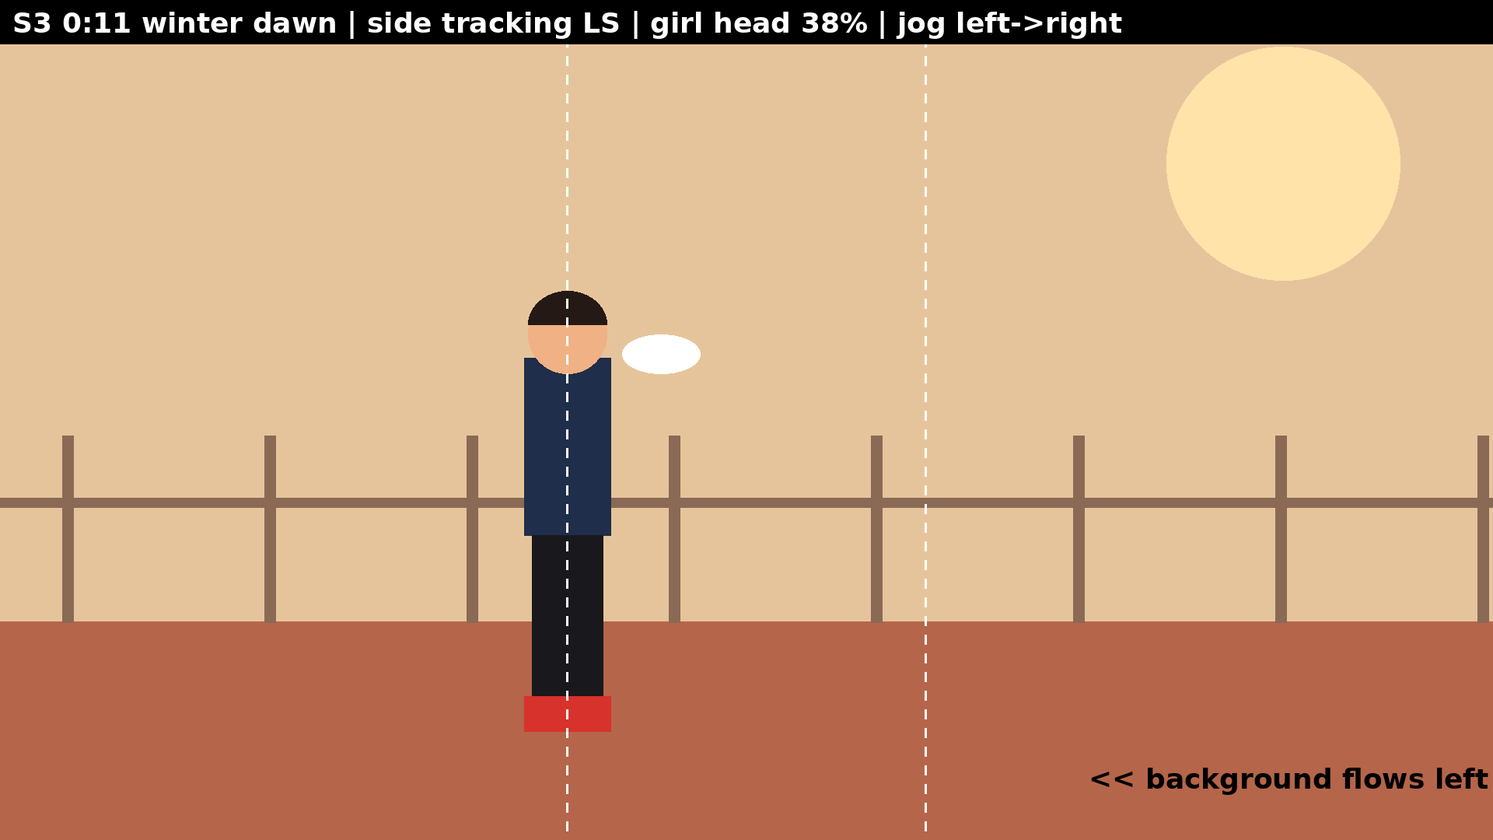
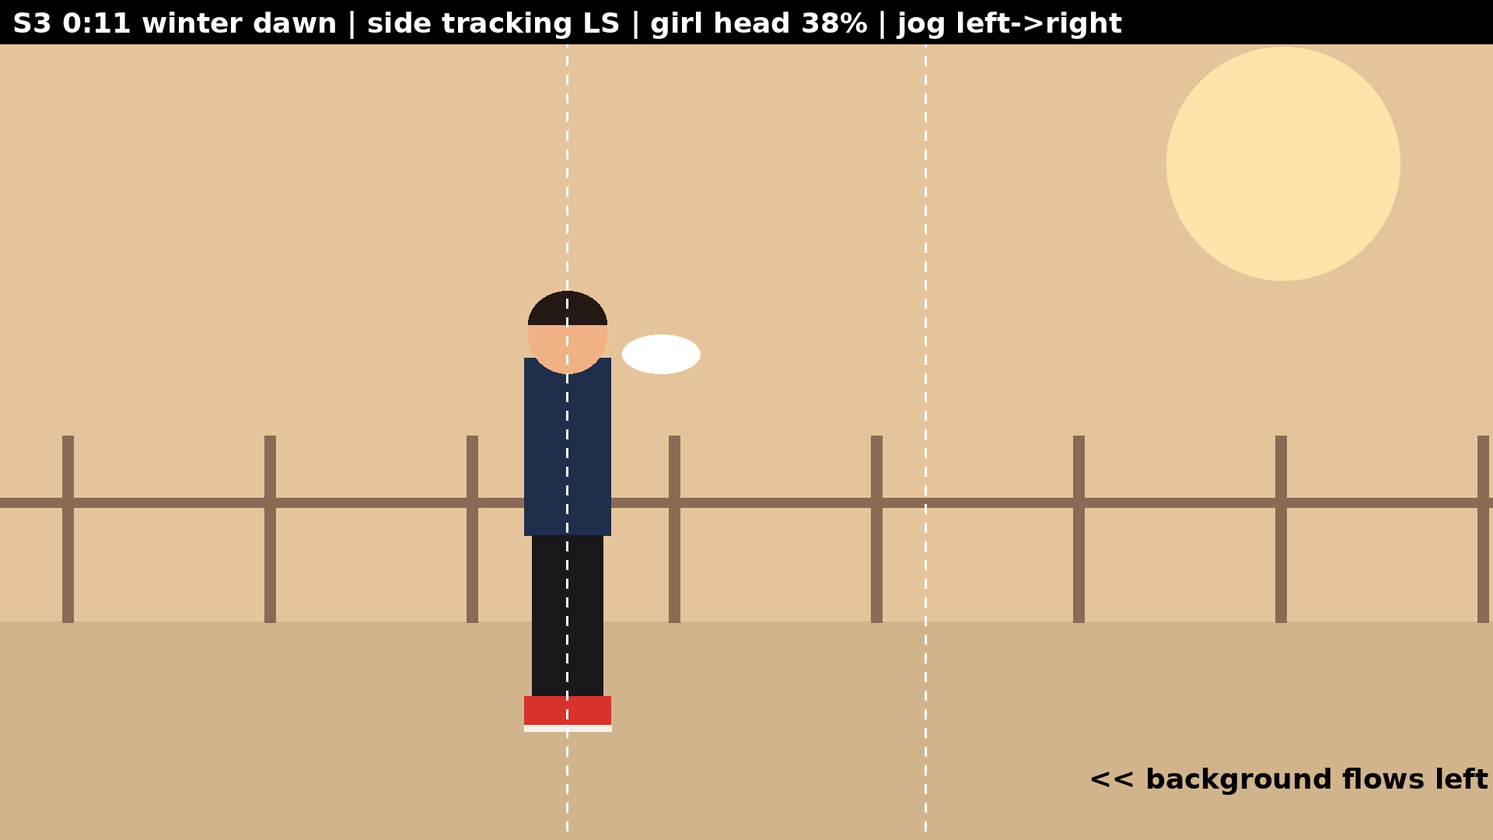
Storyboard v2, palette v2, story v5 after step-2 audit
Claude-Session: https://claude.ai/code/session_01RCKfh7QFC5JMYtfdRs4yVc

Changed region(s): [[0.0, 0.7333, 1.0, 1.0]]

diff --git a/pain_before_success/tools/sketches.py b/pain_before_success/tools/sketches.py
@@ -32,7 +32,7 @@ def guides(im,label):
 
 shots={}
 # S1 rainy night, low angle, girl at 62%, backlight
-im,d,m,md=base('#2A2028','#4E2A20',0.62)
+im,d,m,md=base('#2A2028','#4A3C32',0.62)
 d.ellipse([820,60,1560,820],fill='#C27A40')                        # lit rain mist halo behind girl
 d.ellipse([1050,80,1350,330],fill='#F2A24A')                       # streetlight glow behind
 person(d,1190,300,620,'#14101A',legs='#14101A',skin='#5A3828',shoes='#2A2A30',mask=md)  # backlit silhouette
@@ -41,24 +41,24 @@ for x in range(0,W,70): d.line([x,60,x-30,H*0.62],fill='#FFD08A',width=1)  # rai
 for x in (1050,1300,1120): d.ellipse([x,900,x+90,950],fill='#FFD08A')       # splashes
 shots['S1']=(im,m,'S1 0:00 rainy night | low angle MS-full | girl head 62% | falls forward ~1.2s')
 # S2 bedroom
-im,d,m,md=base('#5E4232','#7A4E30',0.72)
+im,d,m,md=base('#5E4232','#4E3424',0.72)
 d.rectangle([0,430,820,780],fill='#3A3550')                        # bed left
 d.ellipse([480,420,640,560],fill=SKIN); md.ellipse([480,420,640,560],fill=255)   # sleeping face ~30%
 d.rectangle([600,470,820,600],fill='#BDB6AE'); md.rectangle([600,470,820,600],fill=255)
 d.rectangle([650,600,720,640],fill=GAUZE); d.rectangle([740,600,810,640],fill=GAUZE)
 d.ellipse([160,40,420,300],fill='#F5B65E')                         # lamp glow
 person(d,1190,420,560,CARD,legs='#5A4A3A',mask=md)                  # mom crouch at 62%
-d.rectangle([1080,700,1160,760],fill=RED); d.rectangle([1230,700,1310,760],fill=RED)
+d.rectangle([1080,700,1160,760],fill=RED); d.rectangle([1230,700,1310,760],fill=RED); d.rectangle([1080,750,1160,762],fill='#F4F1EA'); d.rectangle([1230,750,1310,762],fill='#F4F1EA')
 d.rectangle([700,880,840,960],fill=OLDW); d.rectangle([860,880,1000,960],fill=OLDW)
 d.ellipse([965,895,995,925],fill='#2A1D18')                        # hole right shoe
 d.rectangle([1030,880,1310,960],outline='#F5B65E',width=3)          # landing space
 shots['S2']=(im,m,'S2 0:05 bedroom | floor-level side MS | mom head 62% | new shoes -> right of old')
 # S3 winter dawn fog tracking
-im,d,m,md=base('#E6C49B','#B5654A',0.74)
+im,d,m,md=base('#E6C49B','#D2B48C',0.74)
 d.ellipse([1500,60,1800,360],fill='#FFE3A8')
 for x in range(80,W,260): d.rectangle([x,560,x+14,800],fill='#8A6A55')   # fence posts
 d.rectangle([0,640,W,652],fill='#8A6A55')
-person(d,730,380,560,NAVY,shoes=RED,mask=md)
+person(d,730,380,560,NAVY,shoes=RED,mask=md); d.rectangle([730-56,380+560-8,730+56,380+560],fill='#F4F1EA')
 d.ellipse([800,430,900,480],fill='#FFFFFF')                         # breath
 d.text((1400,980),'<< background flows left',fill='#000000',font=FONT)
 shots['S3']=(im,m,'S3 0:11 winter dawn | side tracking LS | girl head 38% | jog left->right')
@@ -68,22 +68,23 @@ for x in range(0,W,40): d.line([x,0,x+15,H],fill='#3B3A1E',width=2)
 d.ellipse([1000,250,1380,700],fill='#F7C49A'); md.ellipse([1000,250,1380,700],fill=255)
 d.ellipse([1030,80,1350,330],fill=HAIR)                             # hair spread above head
 d.ellipse([1110,420,1160,450],fill=HAIR); d.ellipse([1220,420,1270,450],fill=HAIR)
-d.ellipse([1300,150,1700,550],fill='#F08A4B')                      # warm light pool (behind)
+d.polygon([(1380,300),(1920,180),(1920,700),(1380,640)],fill='#5A5A26')   # long warm light from right, no sun
+d.polygon([(400,280),(1000,330),(1000,620),(400,680)],fill='#2A3014')       # long shadow to left
 d.rectangle([1000,700,1380,H],fill=NAVY); md.rectangle([1000,700,1380,H],fill=255)
 shots['S4']=(im,m,'S4 0:16 sunset grass | top-down CU | eyes at 62% | eyes open ~0:18.67')
 # S5 finish
-im,d,m,md=base('#F3D28C','#C0583C',0.55)
+im,d,m,md=base('#F3D28C','#D2B48C',0.55)
 person(d,1500,420,300,'#8C6A5A',legs='#8C6A5A');person(d,1650,440,280,'#9C7A6A',legs='#9C7A6A')
-person(d,730,300,520,NAVY,shoes=RED,mask=md)
+person(d,730,300,520,NAVY,shoes=RED,mask=md); d.rectangle([730-52,300+520-8,730+52,300+520],fill='#F4F1EA')
 d.rectangle([700,420,760,470],fill='#FFFFFF')                       # plain bib
 d.line([0,560,W,520],fill='#FFFFFF',width=8)                        # tape far
-shots['S5']=(im,m,'S5 0:21 finish | low telephoto LS | girl head 38% | tape break ~0:24.00')
+shots['S5']=(im,m,'S5 0:21 finish | low tele 30deg, slow-mo LS | girl head 38% | tape break 0:24.00')
 # S6 stands
-im,d,m,md=base('#9C6A44','#6E4430',0.7)
+im,d,m,md=base('#9C6A44','#A87850',0.7)
 for x in (300,900,1600): person(d,x,200,260,'#C89A6A',legs='#C89A6A')  # far blurred crowd
 person(d,730,180,1100,CARD,mask=md)
 d.rectangle([600,560,860,700],fill=OLDW); d.ellipse([800,600,840,640],fill='#2A1D18')
-person(d,1340,430,800,'#2F4F3A',hair='#B9B4AC',mask=md)
+person(d,1340,430,800,'#4F6B3F',hair='#B9B4AC',mask=md)
 shots['S6']=(im,m,'S6 0:26 stands | eye-level front MCU | mom head 38%, aunt ~70%')
 
 rows=[]
@@ -100,4 +101,6 @@ def sheet(suffix,name):
     for i,k in enumerate(shots): s.paste(Image.open(f'{OUT}/{k}_{suffix}.png').resize((960,540)),((i%3)*960,(i//3)*540))
     s.save(f'{OUT}/../{name}')
 sheet('color','overview_color.png'); sheet('gray','overview_gray.png')
+def lum(h): h=h.lstrip('#'); r,g,b=[int(h[i:i+2],16) for i in (0,2,4)]; return .299*r+.587*g+.114*b
+print('red shoe %.0f vs dry track %.0f / S2 floor %.0f'%(lum(RED),lum('#D2B48C'),lum('#4E3424')))
 for r in rows: print('%s  fg=%.0f bg=%.0f diff=%.0f %s'%(*r,'OK' if r[3]>=40 else 'LOW'))

diff --git a/pain_before_success/01_story/story_v5.md b/pain_before_success/01_story/story_v5.md
@@ -1,0 +1,51 @@
+# 《終點線》逐鏡頭故事 v5（v4 經用戶確認；v5 只同步分鏡數字並修正 S5 拍法與跑道顏色）
+
+- 片長：32 秒｜畫幅：16:9｜無對白、無字幕、無片尾字卡｜有配樂（約 32 秒，配樂定案後再微調各鏡時長對拍）
+- 結構：片段式（鏡頭間不接戲，靠時間與季節跳躍串起）
+- 畫風：參照上傳參考片——2D 手繪插畫式動畫、**全片暖色光**（橘黃路燈、檯燈、金色晨光、夕陽、午後金光）、大眼睛修長比例角色、表情豐富
+- 每鏡只有一個主要動作；每人每鏡最多兩個動作
+- 跑道是低彩度沙褐色（不是紅色跑道），紅鞋配白色鞋底，紅色只給紅鞋用
+
+## 一句話主旨
+每一次摔倒、每一雙磨破的鞋，都是終點線前必須付的代價——而媽媽一直看在眼裡。
+
+## 角色（固定特徵寫死，盡量左右對稱）
+- **小晴**（主角）：17 歲高中女生，長跑選手。黑色高馬尾綁在頭頂正後方，額前齊瀏海。
+  - 練習服：深藍色無字背心＋黑色短褲（S1、S4）
+  - 家居服：淺灰色寬 T 恤＋深灰短褲（S2）
+  - 冬裝：深藍色長袖防風外套（拉鍊拉到胸口）＋黑色長緊身褲（S3）
+  - 比賽服：深藍色無字背心＋黑色短褲＋胸前一塊**素面白色號碼布（無任何字或數字）**（S5）
+  - 紗布：只有 S2 兩邊膝蓋各貼一塊白色方形紗布；S3 之後已痊癒、不貼。
+- **媽媽**：45 歲左右，黑色齊耳短髮，米色開襟毛衣（S2、S6 同一件）。
+- **陌生阿姨**（只在 S6）：60 歲左右，灰白短捲髮，墨綠色上衣。
+- **鞋（核心道具）**：
+  - 舊鞋＝白底藍邊、髒舊；長期磨損、鞋頭布料已經磨得很薄；**S1 這一摔右腳鞋頭拖地，終於磨穿成一個洞**（S1 畫面中鞋在逆光暗處看不清細節）。之後右鞋鞋頭有洞。
+  - 新鞋＝鮮紅色跑鞋，兩隻都完好。
+
+## 逐鏡頭
+| 鏡 | 片中時間 | 生成秒數 | 地點／光 | 首幀 → 發生什麼 → 尾幀 |
+|---|---|---|---|---|
+| S1 | 0:00.00–0:05.33 | 8 秒 | 下雨的夜晚田徑場，橘黃色鈉燈路燈從背後打強烈逆光，雨絲與水花被照亮 | **首幀**：低機位中全景（看得到雙腳），小晴已在雨中朝鏡頭方向跑，身形被逆光勾出明亮輪廓，臉上有前方路燈的暖色補光、極度疲憊的表情看得清楚。**發生**：約第 1–1.5 秒，她腿一軟、右腳鞋頭拖地被絆，往前撲倒，雙手撐地、膝蓋著地，水花濺起。**尾幀**：她跪撐在濕跑道上，低頭喘氣，雨打在背上。 |
+| S2 | 0:05.33–0:10.67 | 8 秒 | 同一晚，臥室，暖黃檯燈 | **首幀**：床在畫面左側，小晴換了乾的家居服，面向鏡頭側睡，兩邊膝蓋的白紗布清楚可見；床邊地板前景放著那雙她回家脫下的舊鞋，右鞋鞋頭的破洞朝向鏡頭；舊鞋右邊留著一雙鞋大小的空地板，在媽媽一臂之內。媽媽蹲在畫面右側，四分之三側臉朝左，眼眶已經紅了，左右手各拿一隻紅色新鞋，低頭看著破鞋。**發生**：媽媽抬頭望向熟睡的女兒 → 低頭把紅鞋輕輕放在舊鞋右邊的空地上。**尾幀**：兩雙鞋並排在地上，媽媽的手剛離開新鞋，看著女兒。 |
+| S3 | 0:10.67–0:16.00 | 8 秒 | 冬天清晨，田徑場，薄霧中金色朝陽從畫面右後方斜照 | **首幀**：側面中景跟拍，小晴穿冬裝與紅色新鞋，以穩定慢跑配速由左往右跑，人在畫面左側約 38% 處，全身與紅鞋清楚。**發生**：攝影機與她同速向右橫移跟拍，她在畫面中的位置不變，背景的欄杆、燈柱與霧往左流過；嘴裡規律吐出白氣。**尾幀**：她仍在畫面約 38% 處，背景已移過一段，光線與首幀完全相同。（製作：先畫一張寬幅背景，再用 Python 切出首尾幀，確保背景連續。） |
+| S4 | 0:16.00–0:21.33 | 8 秒 | 夏天傍晚，跑道內側草地，橘紅夕陽從畫面右側斜照（畫面裡看不到太陽），草上有長影 | **首幀**：正上方俯拍特寫，小晴仰躺在草地上，臉朝上、滿臉汗，閉眼大口喘氣；馬尾從頭後散在草上。臉旁的草葉被晚風吹得輕輕擺動（全程持續）。**發生**：胸口大口起伏，然後她慢慢睜開眼看著天空，嘴角慢慢上揚——累到極點後的釋然（睜眼約片中 0:18.67，配樂第 8 小節重拍）。**尾幀**：睜眼、淺淺微笑，胸口起伏變緩，草葉仍輕擺。 |
+| S5 | 0:21.33–0:26.67 | 8 秒 | 比賽日，晴朗午後，金色側逆光（從畫面左後方），臉部有暖色補光、表情清楚 | **整段慢動作（約 0.4 倍速）**。**首幀**：低機位、長焦，從終點線右前方約 30° 斜拍、固定，小晴在遠處穿紅鞋全力衝刺，從畫面左後方往右前方斜向跑來，全身入鏡；白色終點帶橫在畫面中後段、離鏡頭約三分之二遠（兩端由畫面外的裁判拉著）；只有兩名對手，模糊、落後在她身後、都在畫面右側，全程不與她交叉。**發生**：她持續衝刺，約第 4.0 秒（片中 0:24.00，配樂重拍）胸口撞斷終點帶，雙臂順勢張開。**尾幀**：她剛衝過終點帶、仍在跑、雙臂張開、仰頭，人物仍是全身且離鏡頭還有一段距離；終點帶斷成兩截，各往畫面左右兩側垂落。 |
+| S6 | 0:26.67–0:32.00 | 8 秒 | 看台，同一個金色午後 | **首幀**：中近景平視，媽媽已經站著，雙手把洗乾淨的舊鞋抱在胸前（右鞋破洞朝鏡頭），人在畫面左側約 38% 處，看向畫面左下方的跑道，表情緊繃——這是她看到女兒衝線那一刻。畫面右側（約 70% 處）坐著陌生阿姨，也看向畫面左下方的跑道。背景只有三四個很遠、很模糊的觀眾，首幀已經站著、手舉著，只輕微晃動。**發生**：媽媽眼淚掉下來，表情從緊繃變成含淚的笑（雙手抱鞋姿勢不變）。隔一拍，坐著的阿姨抬頭往畫面左上方看向站著的媽媽，接著微笑輕輕鼓掌。**尾幀**：媽媽抱著鞋含淚笑，阿姨看著她鼓掌。 |
+
+## 現實邏輯自問
+- S1 為什麼摔倒？練到腿軟，雨天跑道濕滑，右腳鞋頭拖地被絆；鞋頭本來就磨薄，這一摔才磨穿。
+- S2 衣服：回家換過乾衣服、累到直接睡著；舊鞋是她脫在床邊的。新鞋：媽媽事先買好，今晚看到破鞋和傷才拿出來，首幀就在她手上。
+- S3 冬天穿外套與長褲；紗布已拿掉（傷已痊癒）。
+- S5 終點帶由畫面外的裁判拉著；號碼布素面。
+- S6 舊鞋為什麼在看台？媽媽把它洗乾淨收著，比賽日帶來——她一直看在眼裡。阿姨看到旁邊的人激動落淚，猜到是家長，才鼓掌。
+- 時間跳躍：雨夜 → 同晚 → 冬天清晨 → 夏天傍晚 → 比賽日。
+
+## 避開 AI 弱點
+- 無任何文字：背心、號碼布、看板都素面。
+- 手拿物件：只有 S2「放鞋」、S6「抱鞋」，都是中型物件；S2、S6 的鞋子數量在首尾幀必須核對（舊鞋 2 隻＋新鞋 2 隻）。
+- 不對稱特徵：只有舊鞋「右鞋破洞」，提示詞寫死、疊圖時專門檢查。
+- 配角最多：S5 兩名模糊對手（同在右側、不與主角交叉）、S6 一名阿姨＋背景靜止觀眾。
+- 單鏡不換光；人物不轉身背對鏡頭；俯拍只在 S4，且臉朝上。
+
+## 配樂對位（待配樂定案）
+- 配樂 90 BPM、12 小節。0–16 秒主歌鋪陳；0:16.00（S4 開頭）進副歌；睜眼 0:18.67；撞線 0:24.00 是全片最重的一拍。

diff --git a/pain_before_success/02_storyboard/storyboard.md b/pain_before_success/02_storyboard/storyboard.md
@@ -1,4 +1,4 @@
-# 《終點線》分鏡表 v1
+# 《終點線》分鏡表 v2（數字以本表為準）
 
 - 配樂：90 BPM，4/4 拍，1 小節 = 2.667 秒，全片 12 小節 = 32 秒。每鏡 2 小節（5.33 秒），切點都落在小節線上。
 - 生成：全部用 Google Flow **Veo 3.1 Lite**、8 秒（每鏡 10 點，6 鏡共 60 點，留 10 點重拍一次）。後期從 8 秒裡剪出 5.33 秒。
@@ -8,16 +8,27 @@
 | 鏡 | 片中時間（小節） | 生成 → 取用區間 | 景別 | 機位 | 運鏡 | 誰往哪動（畫面左右） | 表情推進 | 動態來源 | 轉到下一鏡 |
 |---|---|---|---|---|---|---|---|---|---|
 | S1 | 0:00.00–0:05.33（1–2） | 8 秒 → 0.3–5.63 秒 | 中全景（看得到腳） | 貼地低機位、正面略偏左 | 固定 | 小晴從畫面深處朝鏡頭跑，頭在 62%；約第 1.2 秒往前撲倒，跪撐時頭落在 62% 偏下 | 疲憊 → 撐地喘氣 | 人物、雨絲、水花 | 硬切，落在第 3 小節重拍 |
-| S2 | 0:05.33–0:10.67（3–4） | 8 秒 → 1.0–6.33 秒 | 中景 | 地板高度、側面；舊鞋在前景 | 極慢推近（約 5%） | 床與小晴在畫面左側（臉在 30%）；媽媽蹲在右側，頭在 62%，四分之三側臉朝左 | 媽媽：心疼、低頭 → 抬頭看女兒 → 低頭放鞋 | 媽媽兩個動作、推鏡 | 硬切 |
-| S3 | 0:10.67–0:16.00（5–6） | 8 秒 → 1.0–6.33 秒 | 全景（中遠） | 側面平視 | 向右橫移跟拍，與人同速 | 小晴由左往右慢跑，頭固定在 38%；背景往左流 | 專注、吐白氣 | 跟拍、背景流動、白氣、霧 | 硬切，落在副歌第一拍（第 7 小節） |
-| S4 | 0:16.00–0:21.33（7–8） | 8 秒 → 0.3–5.63 秒 | 特寫 | 正上方俯拍、臉朝上 | 極慢拉遠（約 5%） | 臉放在畫面右側，眼睛在 62%；頭朝畫面上方 | 閉眼喘 → 約 0:18.67（第 8 小節重拍）睜眼 → 嘴角上揚 | 胸口起伏、草葉擺動、拉鏡 | 硬切 |
-| S5 | 0:21.33–0:26.67（9–10） | 8 秒 → 1.3–6.63 秒（撞線約在生成第 4.0 秒，對片中 0:24.00 第 10 小節重拍） | 全景 | 低機位、長焦、正面略偏右 | 固定 | 小晴從遠處朝鏡頭衝，頭約在 38%；兩名模糊對手在右側後方 | 咬牙衝刺 → 撞線後張臂仰頭 | 人物衝刺、終點帶斷開飄落 | 硬切，落在第 11 小節重拍 |
+| S2 | 0:05.33–0:10.67（3–4） | 8 秒 → 1.0–6.33 秒（提示詞要求約第 5.5 秒前把鞋放好） | 中景 | 地板高度、側面；舊鞋在前景 | 極慢推近（約 5%） | 床與小晴在畫面左側（臉在 30%）；媽媽蹲在右側，頭在 62%，四分之三側臉朝左 | 媽媽：心疼、低頭 → 抬頭看女兒 → 低頭放鞋 | 媽媽兩個動作、推鏡 | 硬切 |
+| S3 | 0:10.67–0:16.00（5–6） | 8 秒 → 1.0–6.33 秒 | 全景（中遠） | 側面平視 | 向右橫移跟拍，與人同速 | 小晴由左往右慢跑，頭固定在 38%；背景往左流，首尾幀之間欄杆柱至少移過 2 根，首尾幀的腿用不同步態 | 專注、吐白氣 | 跟拍、背景流動、白氣、霧 | 硬切，落在副歌第一拍（第 7 小節） |
+| S4 | 0:16.00–0:21.33（7–8） | 8 秒 → 0.3–5.63 秒 | 特寫 | 正上方俯拍、臉朝上；夕陽從畫面右側斜照，畫面裡看不到太陽 | 極慢拉遠（約 5%） | 臉放在畫面右側，眼睛在 62%；頭朝畫面上方 | 閉眼喘 → 約 0:18.67（第 8 小節重拍）睜眼 → 嘴角上揚 | 胸口起伏、草葉擺動、拉鏡 | 硬切 |
+| S5 | 0:21.33–0:26.67（9–10） | 8 秒 → 1.3–6.63 秒（撞線約在生成第 4.0 秒，對片中 0:24.00 第 10 小節重拍） | 全景 | 低機位、長焦，**從終點線右前方約 30° 斜拍**（和 S1 的正面拍法區分開） | 固定 | **整段慢動作衝刺**（約 0.4 倍速），小晴從畫面左後方往右前方斜向跑來，頭約在 38%；兩名模糊對手在她後方更遠處、畫面右側，不交叉 | 咬牙衝刺 → 撞線後張臂仰頭 | 慢動作的步伐、汗珠、終點帶斷開飄落 | 硬切，落在第 11 小節重拍 |
 | S6 | 0:26.67–0:32.00（11–12） | 8 秒 → 0.3–5.63 秒 | 中近景 | 平視正面（全片唯一一次） | 固定 | 媽媽站在左側，頭在 38%、抱舊鞋，看向畫面左下方；阿姨坐在右側約 70%，抬頭往左上方看向媽媽 | 媽媽：緊繃 → 落淚含笑；隔一拍，阿姨：轉頭 → 微笑鼓掌 | 表情、淚、阿姨鼓掌、背景觀眾輕晃 | 最後 0.5 秒配樂收尾，畫面停在尾幀 |
 
 ## 6 條硬規則自查
-1. 角度：低正、地板側、側平跟拍、正上俯、低長焦正、平視正。平視正面只有 1 次。✔
+1. 角度：低正、地板側、側平跟拍、正上俯、低長焦 30° 斜、平視正。平視正面只有 1 次。✔
 2. 動態：每鏡都有人或物在動；S3 背景持續流過。✔
 3. 景別：中全 → 中 → 全 → 特寫 → 全 → 中近，沒有連續同景別。✔
 4. 動態來源：見上表。✔
 5. 運鏡理由：S2 推近是情緒逼近；S3 跟著人；S4 拉遠是釋然。✔
 6. 黃金比例：頭／眼都在 38% 或 62%。S4 的 62% 指眼睛位置，S6 阿姨在 70% 是次要人物。✔
+
+## 和故事 v4 的差異（本表為準，已寫進 story_v5.md）
+- 每鏡片中時間 5.33 秒（2 小節）；全部生成 8 秒。
+- S5 撞線：生成第 4.0 秒 = 片中 0:24.00。S5 改成整段慢動作，鏡頭從 30° 斜角拍。
+- 副歌：S4 開頭 0:16.00（第 7 小節）進副歌；睜眼在 0:18.67（第 8 小節重拍）。
+
+## 生片順序與點數（70 點，8 秒 = 10 點）
+1. 先跑最難的 **S5**（慢動作、斷帶）。通過再跑 **S2**（拿鞋、放鞋、數鞋）。
+2. 兩鏡都可用，再送 S1、S3、S4、S6。6 鏡共 60 點。
+3. 剩下 10 點只夠重拍 1 鏡。重拍前一定先改提示詞或首尾幀，並等用戶批准。
+4. 點數用完就停（鐵律 7），先用現有片段粗剪給用戶看。

diff --git a/pain_before_success/02_storyboard/palette.md b/pain_before_success/02_storyboard/palette.md
@@ -1,6 +1,7 @@
 # 《終點線》色表
 
 全片原則：暖色光（對齊參考片）、無冷藍主光。紅色（新鞋）是全片唯一的強調色，**只給紅鞋用**，其他物件避開飽和紅。
+**跑道統一改成低彩度沙褐色**（不用常見的紅色跑道），避免紅鞋和跑道糊在一起：乾跑道 #D2B48C，濕跑道（S1 夜雨）#4A3C32。
 
 ## 角色固定色
 | 物件 | 色碼 |
@@ -10,23 +11,24 @@
 | 深藍背心／冬季外套 | #1F2E4A |
 | 黑短褲／長褲 | #19181D |
 | 家居 T 恤（淺灰） | #BDB6AE |
-| 紅色新鞋（強調色） | #D7322B |
+| 紅色新鞋（強調色） | #D7322B 鞋身＋**白色鞋底 #F4F1EA**（拉出明度邊界） |
 | 舊鞋（白／藍邊） | #E6DFD1 / #4A6FA5 |
 | 紗布 | #F4F1EA |
 | 媽媽頭髮 | #241914 |
 | 媽媽米色開襟毛衣 | #CDB48A |
-| 阿姨灰白髮／墨綠上衣 | #B9B4AC / #2F4F3A |
+| 阿姨灰白髮／橄欖綠上衣 | #B9B4AC / #4F6B3F |
 
 ## 每場色表
 | 鏡 | 場景 | 主背景 | 光源 | 陰影 | 備註 |
 |---|---|---|---|---|---|
-| S1 | 雨夜田徑場 | #2A2028 暗紫褐夜空、#4E2A20 濕跑道；人物正後方是被路燈照亮的雨霧光暈 #C27A40 | #F2A24A 鈉燈橘 | #120E12 | 人物是暗剪影（身體約 #14101A），疊在亮光暈前，邊緣有亮橘輪廓光；臉部有微弱暖色補光；雨絲與水花用 #FFD08A 高光 |
-| S2 | 臥室 | #5E4232 牆、#7A4E30 木地板 | #F5B65E 檯燈 | #2A1D18 | 床單 #3A3550 深靛（參考片同款）；新鞋紅色在暖色地板上要跳出來 |
-| S3 | 冬晨霧 | #E6C49B 霧、#B5654A 跑道 | #FFE3A8 朝陽 | #8A6A55 | 深藍外套在亮霧前形成強烈明暗對比 |
-| S4 | 夏日夕陽草地 | #3E4820 深橄欖草（壓暗，讓臉跳出來） | #F08A4B 夕陽 | #3B3A1E | 臉被夕陽直射，膚色亮到 #F7C49A，是畫面最亮處 |
-| S5 | 比賽日終點 | #F3D28C 天空、#C0583C 跑道 | #FFE7B0 側逆光 | #7A3A2A | 終點帶 #FFFFFF；對手模糊 #9C7A6A |
-| S6 | 看台 | #9C6A44 看台陰影處的模糊背景、#6E4430 座椅；遠處觀眾 #C89A6A | #FFE0A0 午後光 | #5A3A28 | 舊鞋白色在米色毛衣前面要分得開 |
+| S1 | 雨夜田徑場 | #2A2028 暗紫褐夜空、#4A3C32 濕的沙褐跑道；人物正後方是被路燈照亮的雨霧光暈 #C27A40 | #F2A24A 鈉燈橘 | #120E12 | 人物是暗剪影（身體約 #14101A），疊在亮光暈前，邊緣有亮橘輪廓光；臉部有微弱暖色補光；雨絲與水花用 #FFD08A 高光 |
+| S2 | 臥室 | #5E4232 牆、#4E3424 深色木地板（壓暗，讓紅鞋和白鞋底跳出來） | #F5B65E 檯燈 | #2A1D18 | 床單 #3A3550 深靛（參考片同款）；新鞋紅色在暖色地板上要跳出來 |
+| S3 | 冬晨霧 | #E6C49B 霧、#D2B48C 沙褐跑道 | #FFE3A8 朝陽 | #8A6A55 | 深藍外套在亮霧前形成強烈明暗對比 |
+| S4 | 夏日夕陽草地 | #3E4820 深橄欖草（壓暗，讓臉跳出來） | #F08A4B 夕陽從畫面右側斜照（畫面裡看不到太陽），草上有長影 | #3B3A1E | 臉被夕陽直射，膚色亮到 #F7C49A，是畫面最亮處 |
+| S5 | 比賽日終點 | #F3D28C 天空、#D2B48C 沙褐跑道 | #FFE7B0 側逆光 | #7A3A2A | 終點帶 #FFFFFF；對手模糊 #9C7A6A |
+| S6 | 看台 | #9C6A44 看台陰影處的模糊背景、#A87850 座椅（提亮，和阿姨衣服分開）；遠處觀眾 #C89A6A | #FFE0A0 午後光 | #5A3A28 | 舊鞋白色在米色毛衣前面要分得開 |
 
 ## 黑白明暗檢查（`02_storyboard/overview_gray.png`）
 - v1：S1 剪影和夜色分不開、S4 臉和草地亮度太接近，已依上表調整。
 - 調整後：主體和周圍的亮度差，S1 約 72、S2 約 72、S3 約 105、S5 約 90（0–255）。S4、S6 的量測值偏低，是因為深色頭髮或衣服拉低了平均值；肉眼看，臉和淺色毛衣都和背景分得開。
+- 第二輪（審核意見）：紅鞋和紅色跑道灰階太接近（98 對 116–122）→ 跑道改沙褐、紅鞋加白鞋底；S2 地板壓暗；S6 座椅提亮、阿姨衣服改亮一點的橄欖綠。

diff --git a/pain_before_success/audit_log.md b/pain_before_success/audit_log.md
@@ -33,3 +33,6 @@
 - 配樂 90 BPM，每鏡 2 小節（5.33 秒），切點都在小節線上
 - 黑白檢查：S1、S4 第一次不合格，已調整配色
 - 配樂 v1：`07_output/music/score_v1.wav`／`.mp3`（`tools/music.py`），整合響度 -19.6 LUFS，副歌在 16 秒、撞線重擊在 24 秒；導演聽不到，等用戶試聽
+- 步驟 2 審核：**不通過**。硬傷為 S5 衝刺 8 秒的距離不合，以及紅鞋和紅色跑道灰階太接近（S3、S5）。小問題：S4 草圖裡有太陽、S3 可能原地跑、S1 和 S5 角度重複、故事和分鏡的數字不一致、S2 放鞋時間、S2 地板、S6 阿姨和座椅分不開。
+- 步驟 2 監督：生成秒數、撞線時間、副歌位置三處不一致；重拍只夠一次；建議先跑最難的鏡頭。
+- 修正：分鏡 v2、色表 v2、故事 v5（S5 改整段慢動作＋30° 斜拍；跑道改沙褐、紅鞋加白鞋底；S4 光從右側來、畫面裡沒有太陽；S3 欄杆柱移過 2 根以上、首尾幀步態不同；S2 第 5.5 秒前放好鞋；S6 座椅提亮、阿姨改橄欖綠；生片順序 S5 → S2 → 其他）。重跑黑白檢查：除 S6 外都合格；S6 程式量測值低，是一亮一暗平均抵銷，肉眼看分得開。
